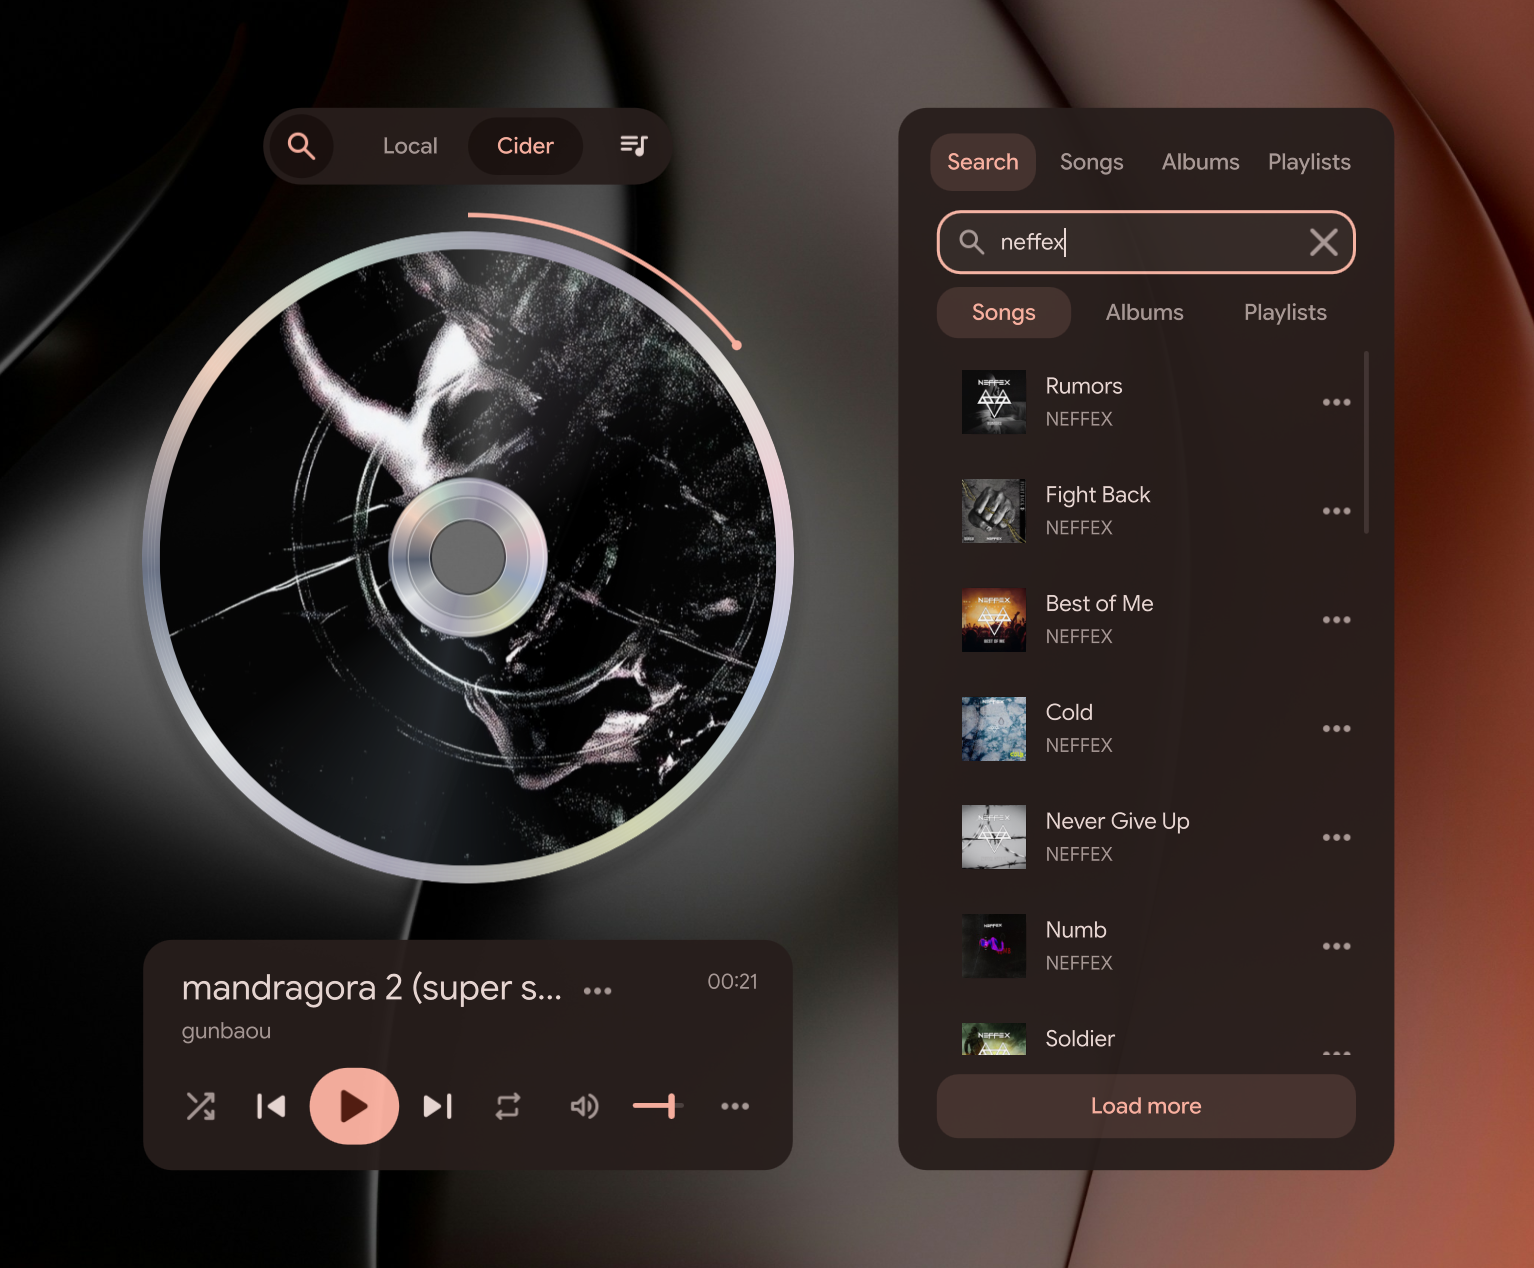
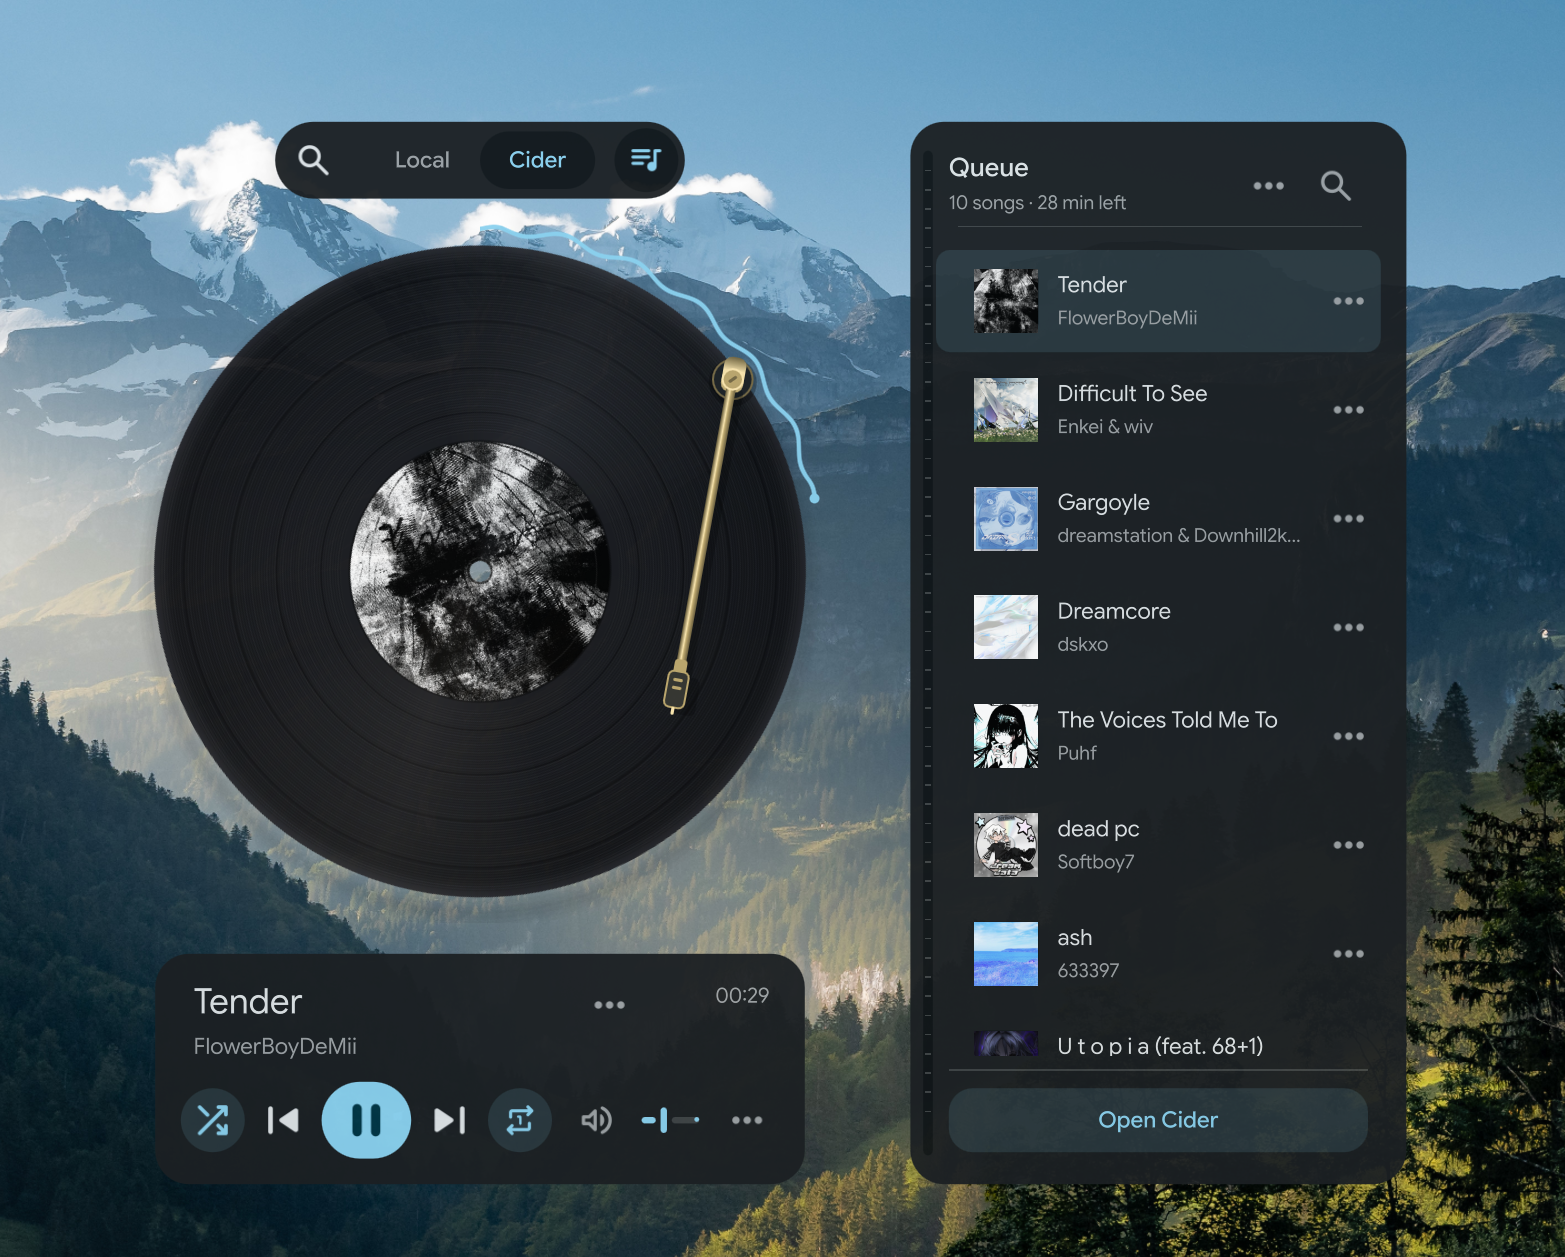
Update README screenshot with vinyl player and queue

diff --git a/README.md b/README.md
@@ -3,7 +3,7 @@
 <p align="center">A CD and vinyl music player for Linux.</p>
 
 <p align="center">
-  <img src="assets/screenshots/spun-player.png" alt="Spun with album artwork on the CD and Cider music search alongside it" width="1000">
+  <img src="assets/screenshots/spun-player.png" alt="Spun in vinyl mode with a gold tonearm and the Cider queue alongside it" width="1000">
 </p>
 
 <p align="center">
